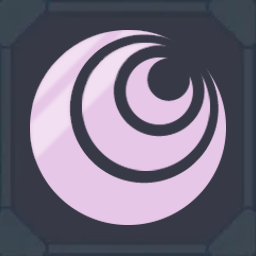
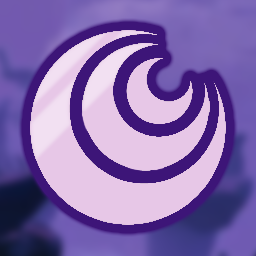
Fixed issue with symbol stacking outside artifact

diff --git a/ArtifactOfPrestige/Networking.cs b/ArtifactOfPrestige/Networking.cs
@@ -29,8 +29,10 @@ namespace ArtifactOfPrestige
         [ClientRpc]
         private void RpcAddIndicator(bool artifactEnabled)
         {
-            if ((artifactEnabled && ArtifactOfPrestige.stackingIndicators.Value || ArtifactOfPrestige.stackOutsidePrestige.Value))
-            ArtifactOfPrestige.shrineBonusStacks++;
+            if ((artifactEnabled && ArtifactOfPrestige.stackingIndicators.Value) || ArtifactOfPrestige.stackOutsidePrestige.Value)
+            {
+                ArtifactOfPrestige.shrineBonusStacks++;
+            }
             if (ArtifactOfPrestige.shrineBonusStacks > 1 && ArtifactOfPrestige.stackingIndicators.Value)
             {
                 var instance = TeleporterInteraction.instance;

diff --git a/ArtifactOfPrestige/ArtifactOfPrestige.cs b/ArtifactOfPrestige/ArtifactOfPrestige.cs
@@ -32,7 +32,7 @@ namespace ArtifactOfPrestige
         public const string PluginGUID = PluginAuthor + "." + PluginName;
         public const string PluginAuthor = "Miyowi";
         public const string PluginName = "ArtifactOfPrestige";
-        public const string PluginVersion = "1.2.5";
+        public const string PluginVersion = "1.2.6";
 
         public static ConfigEntry<bool> stackingIndicators { get; set; }
         public static ConfigEntry<bool> colouredIndicators { get; set; }

diff --git a/ArtifactOfPrestige/Artifact.cs b/ArtifactOfPrestige/Artifact.cs
@@ -59,6 +59,11 @@ namespace ArtifactOfPrestige
             ArtifactOfPrestige.localIndicators = [];
             ArtifactOfPrestige.offset = 0;
 
+            if (ArtifactOfPrestige.stackOutsidePrestige.Value && !ArtifactEnabled)
+            {
+                ArtifactOfPrestige.shrineBonusStacks = 0;
+            }
+
             if ((TeleporterInteraction.instance ?? false) && ArtifactEnabled)
             {
                 var tp = TeleporterInteraction.instance;

diff --git a/Thunderstore/CHANGELOG.md b/Thunderstore/CHANGELOG.md
@@ -1,4 +1,9 @@
-## 1.2.5
+# 1.2.6
+
+- Fixed an issue where the stacking indicator outside prestige setting was not working properly
+- Updated mod icon
+
+# 1.2.5
 
 - Renamed asset bundle to reduce chance of mod conflicts
 
